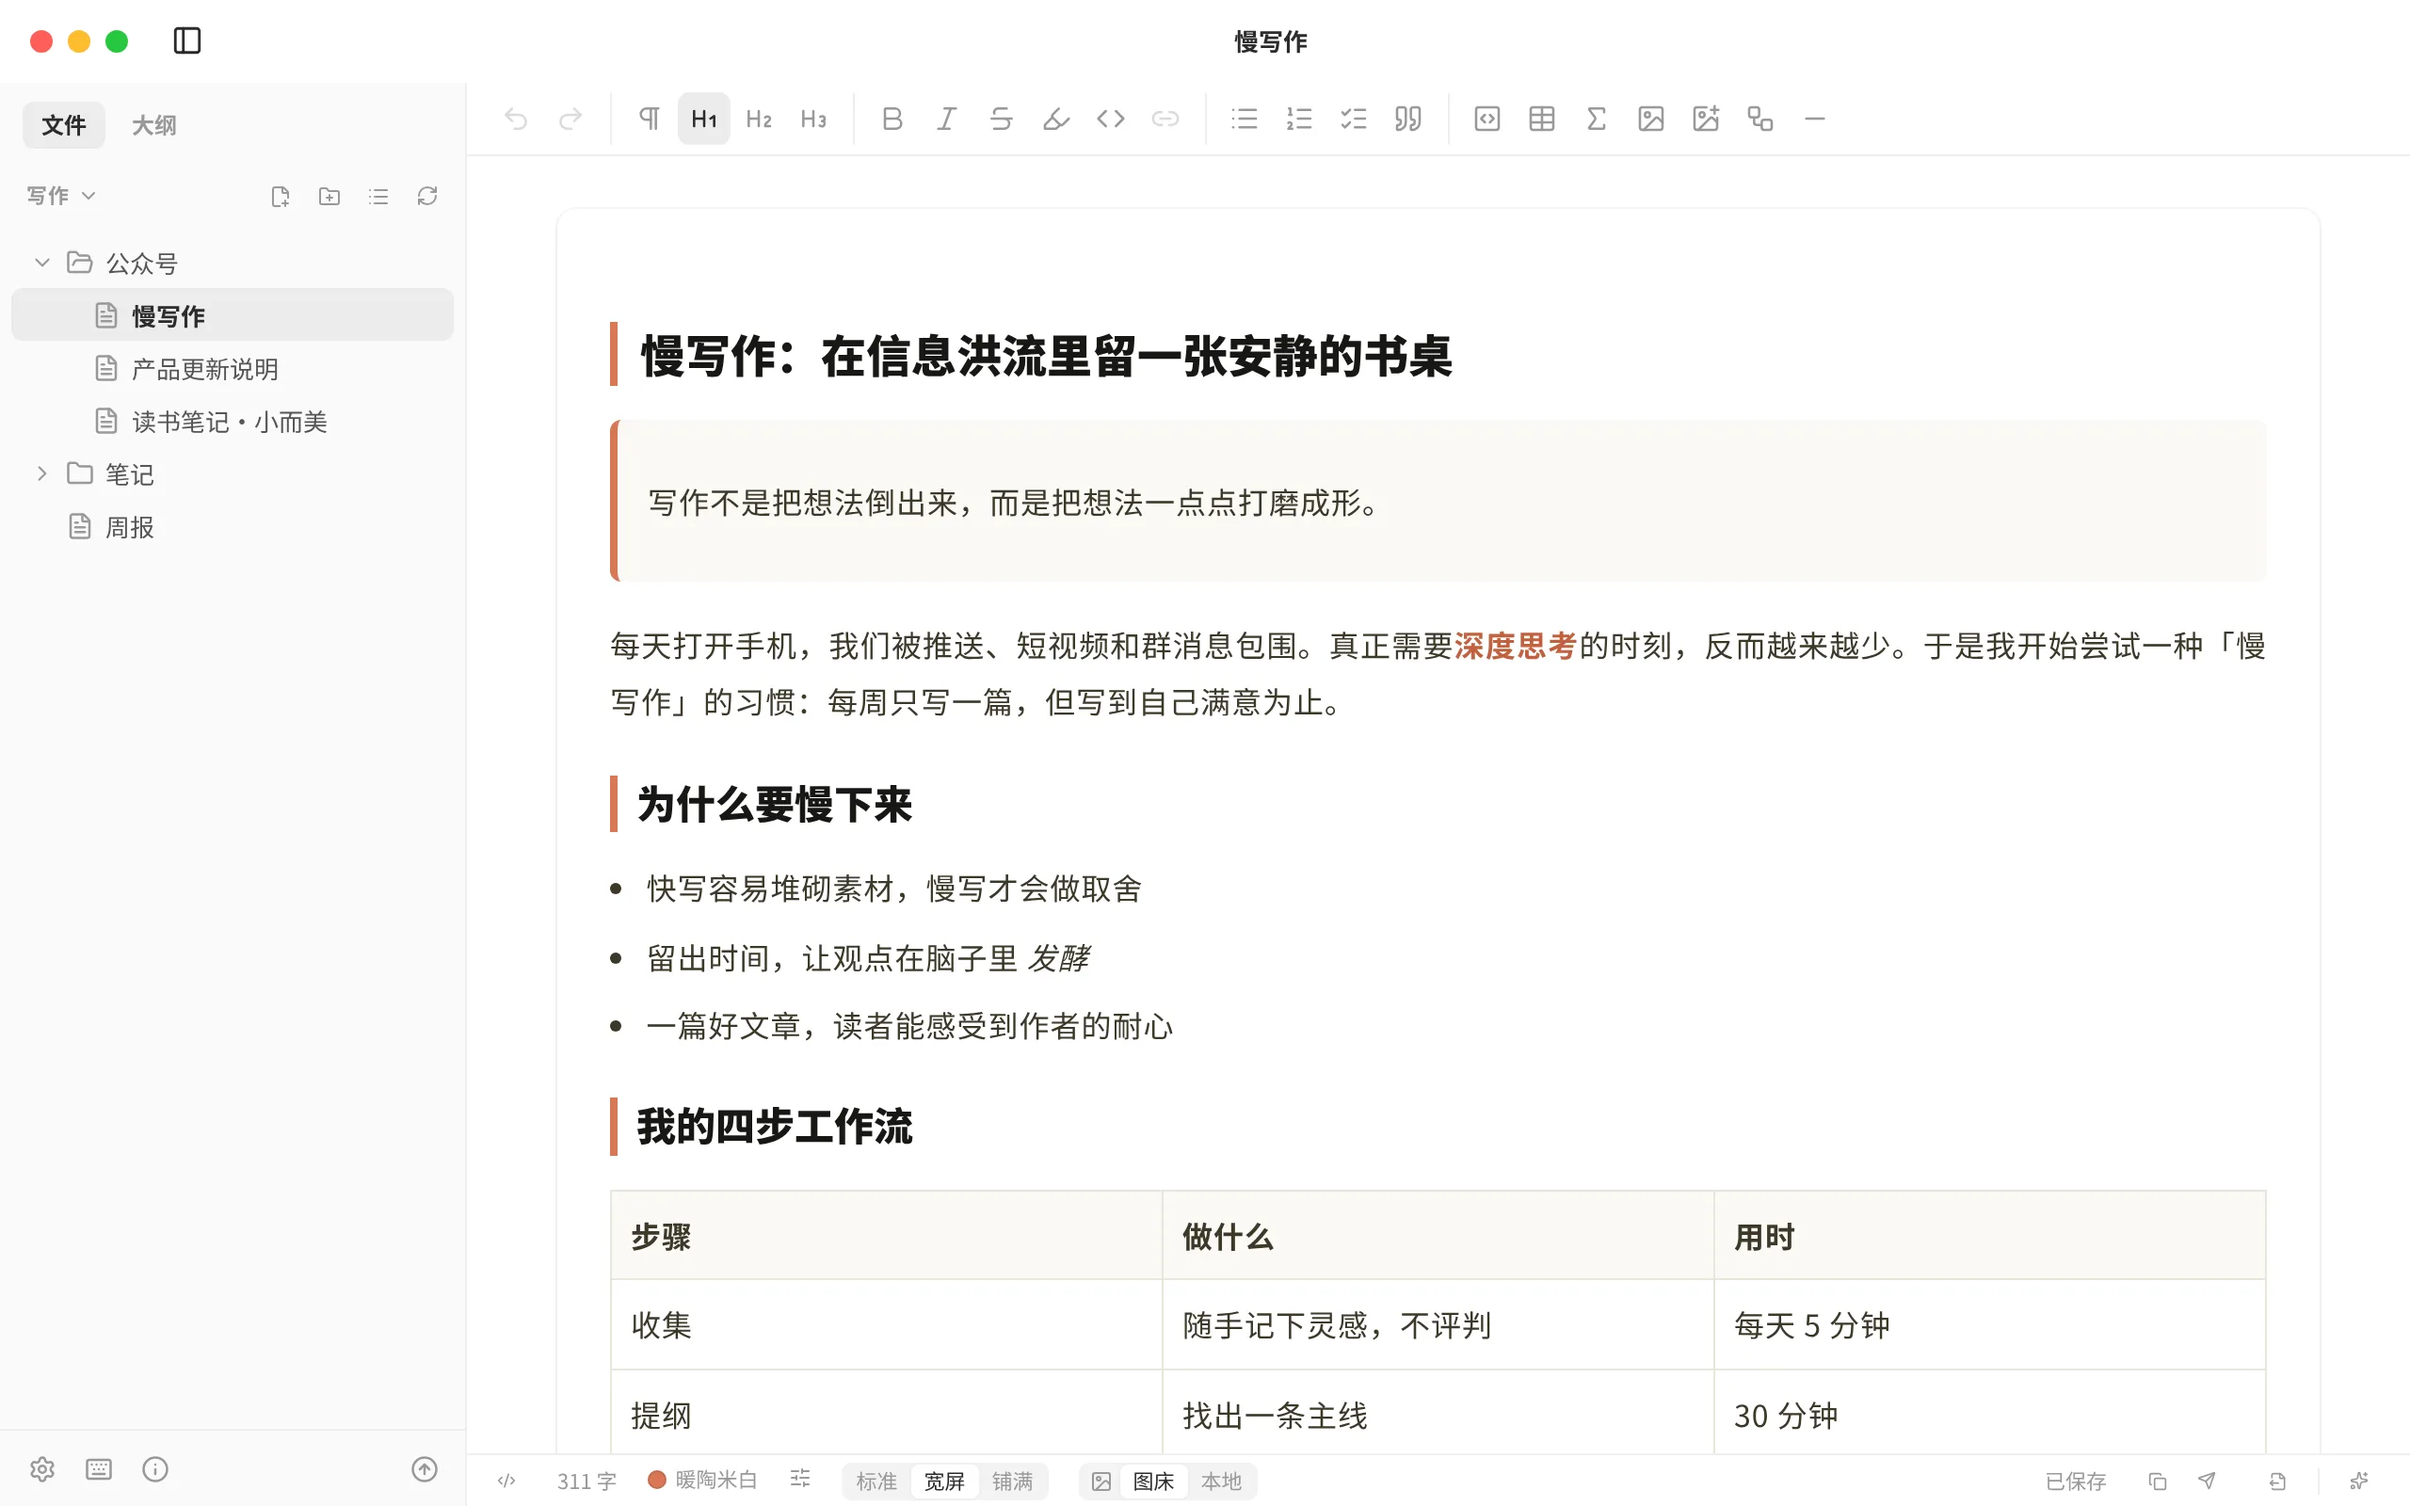
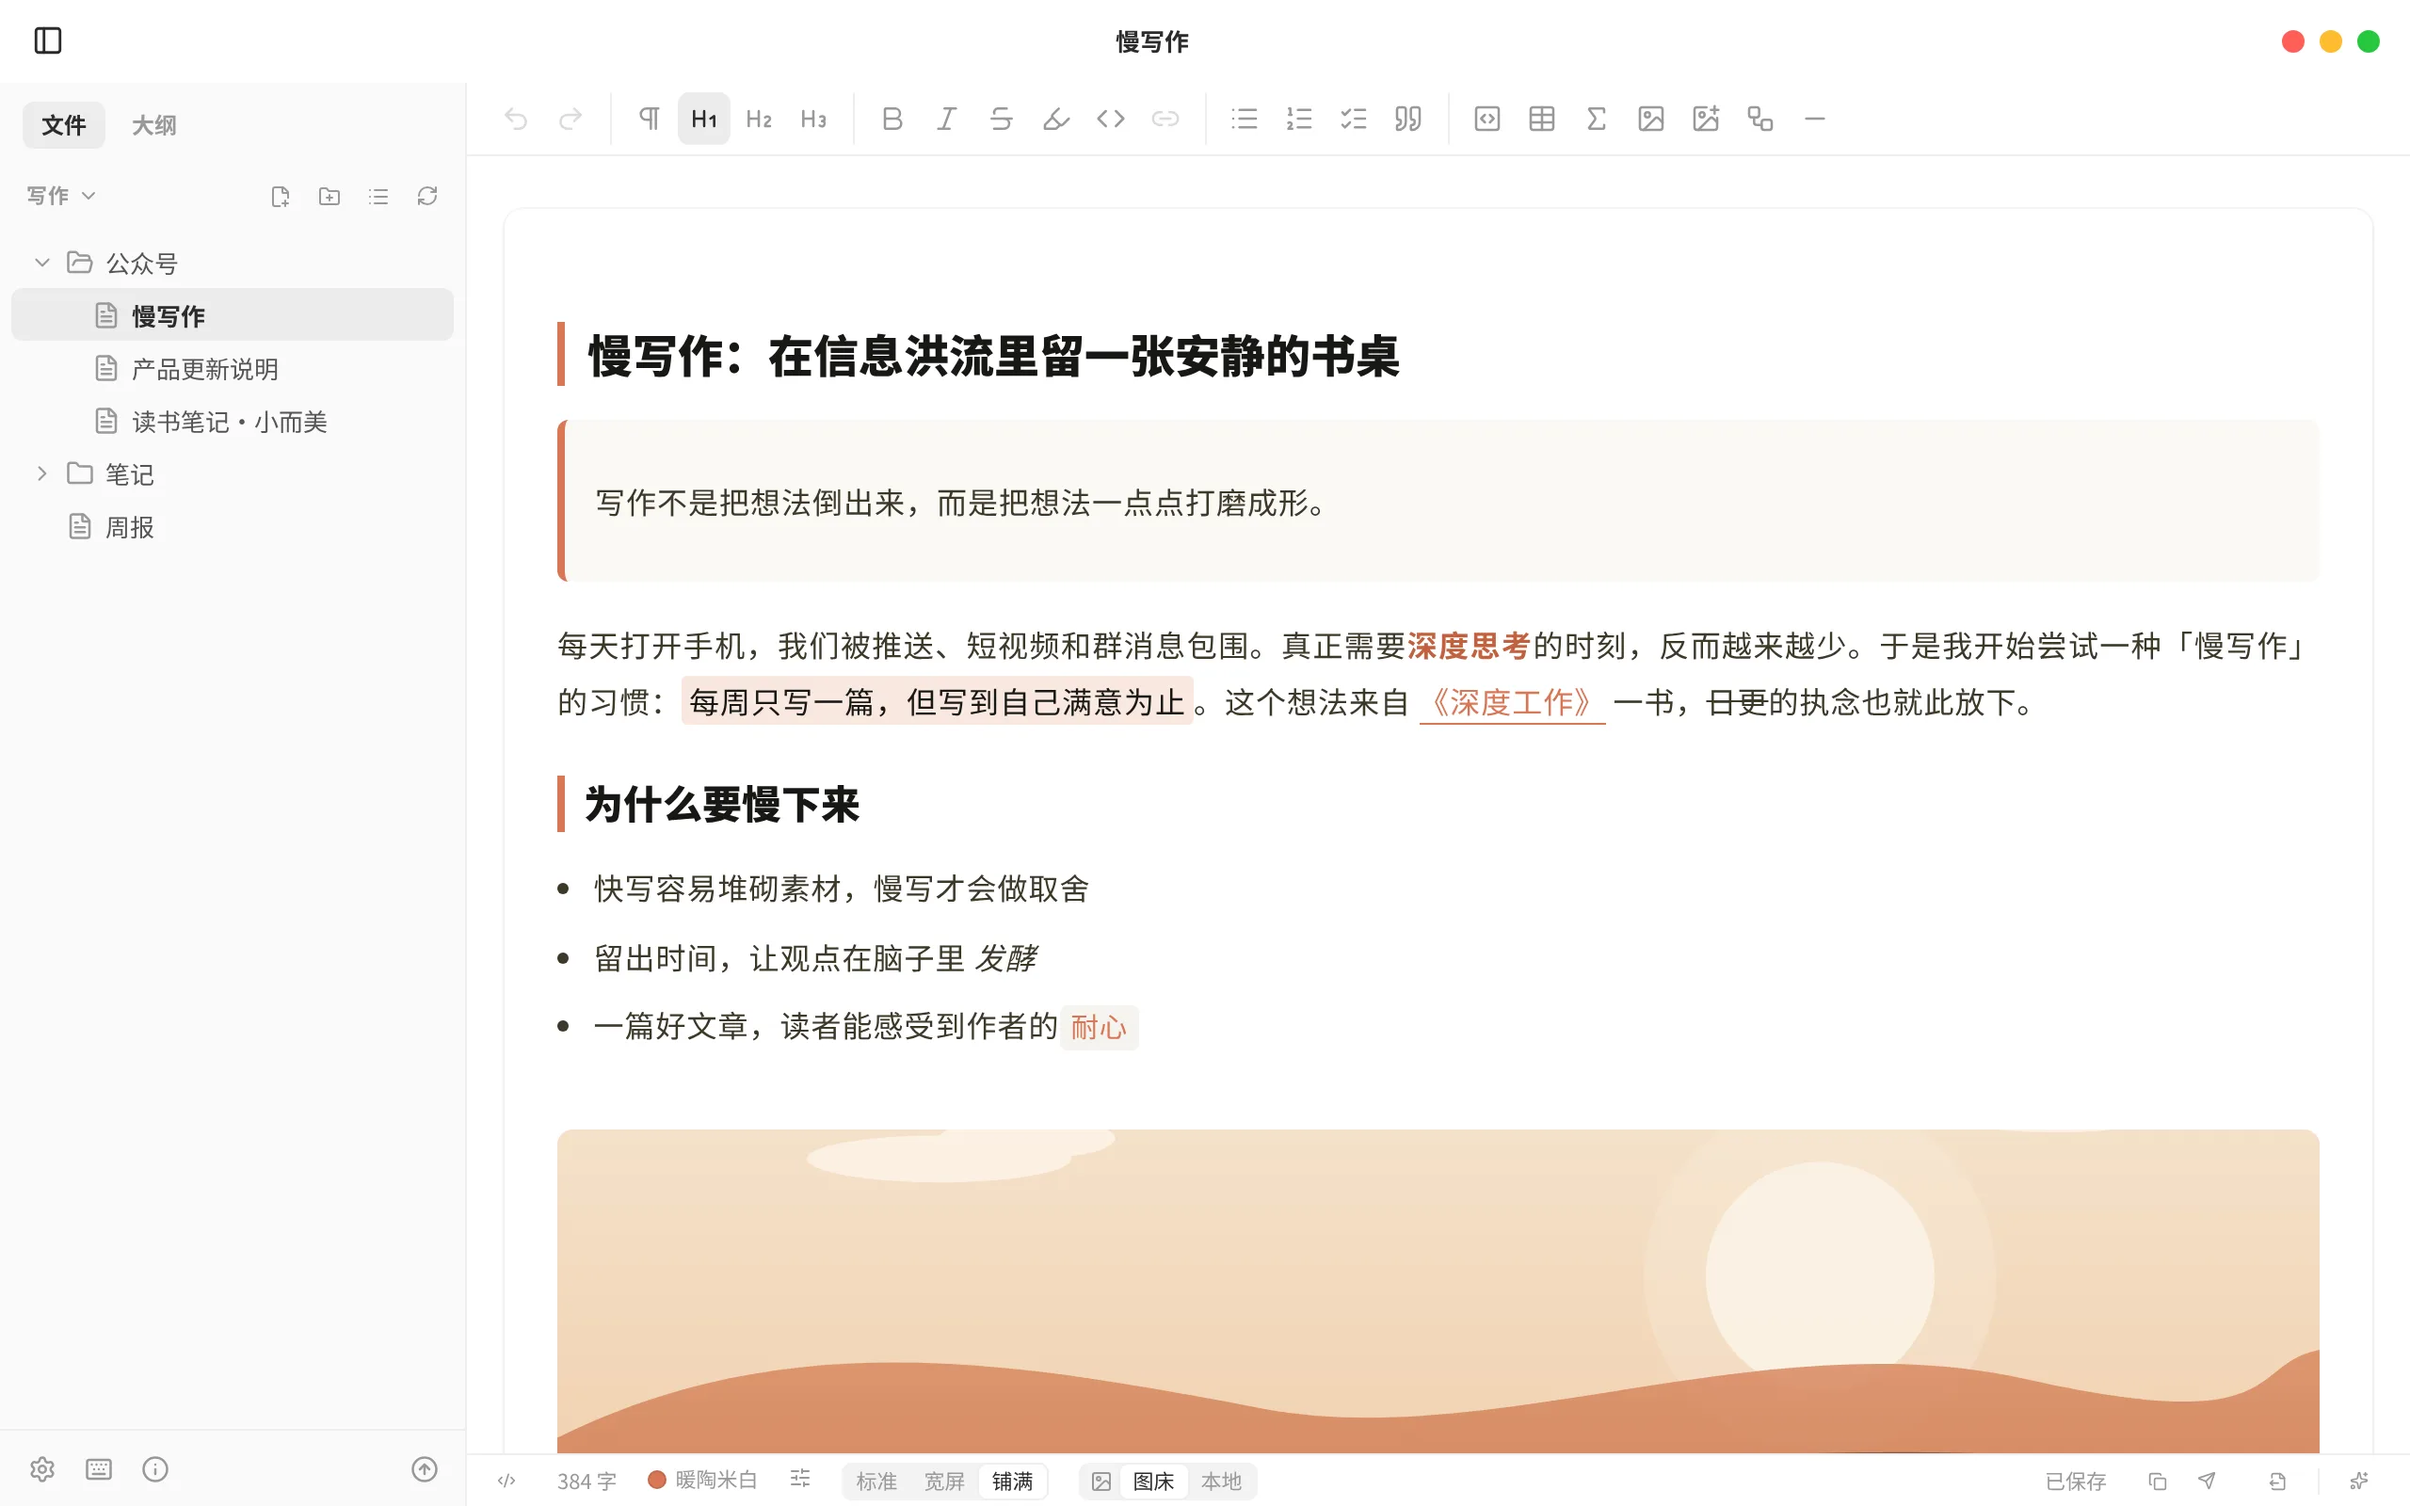
docs: 丰富截图示例文档并按新默认设置重新生成介绍页图片

diff --git a/scripts/screenshots/notes.ts b/scripts/screenshots/notes.ts
@@ -1,15 +1,24 @@
-// 截图用的示例笔记库：路径相对笔记库根目录
-const slowWriting = `# 慢写作：在信息洪流里留一张安静的书桌
+// 截图用的示例笔记库：路径相对笔记库根目录。尽量覆盖编辑器支持的各类元素。
+// 图片引用 assets/ 下的文件，由 shoot.mjs 从 scripts/screenshots/assets/ 提供。
+const slowWriting = `---
+title: 慢写作：在信息洪流里留一张安静的书桌
+tags: [写作, 习惯, 效率]
+summary: 每周只写一篇，但写到自己满意为止
+---
+
+# 慢写作：在信息洪流里留一张安静的书桌
 
 > 写作不是把想法倒出来，而是把想法一点点打磨成形。
 
-每天打开手机，我们被推送、短视频和群消息包围。真正需要**深度思考**的时刻，反而越来越少。于是我开始尝试一种「慢写作」的习惯：每周只写一篇，但写到自己满意为止。
+每天打开手机，我们被推送、短视频和群消息包围。真正需要**深度思考**的时刻，反而越来越少。于是我开始尝试一种「慢写作」的习惯：==每周只写一篇，但写到自己满意为止==。这个想法来自 [《深度工作》](https://calnewport.com/deep-work/) 一书，~~日更~~的执念也就此放下。
 
 ## 为什么要慢下来
 
 - 快写容易堆砌素材，慢写才会做取舍
 - 留出时间，让观点在脑子里 *发酵*
-- 一篇好文章，读者能感受到作者的耐心
+- 一篇好文章，读者能感受到作者的\`耐心\`
+
+![留一张安静的书桌](assets/desk.svg)
 
 ## 我的四步工作流
 
@@ -22,6 +31,13 @@ const slowWriting = `# 慢写作：在信息洪流里留一张安静的书桌
 
 写作的产出大致符合一个朴素的规律：$\\text{质量} \\approx \\text{投入时间} \\times \\text{专注度}^2$。专注度是平方项，这也是为什么关掉通知比多坐一小时更有用。
 
+## 本周清单
+
+- [x] 整理上周的灵感卡片
+- [x] 写完初稿
+- [ ] 删掉三分之一，再读一遍
+- [ ] 发布到公众号
+
 ## 一个小工具
 
 我用一段很短的脚本统计每周的字数：
@@ -32,6 +48,8 @@ from pathlib import Path
 words = sum(len(p.read_text()) for p in Path("写作").rglob("*.md"))
 print(f"本周共写 {words} 字")
 \`\`\`
+
+---
 
 慢一点，也许会走得更远。
 `
@@ -49,17 +67,29 @@ const releaseNote = `# 用 AI 写一篇产品更新说明
 本次更新聚焦在**导出体验**上。过去导出 PDF 需要安装 LaTeX，动辄几百 MB；现在 PDF 直接按编辑区的样式生成，所见即所得。
 `
 
-const formulas = `# 常用公式速查
+const formulas = `---
+title: 常用公式速查
+tags: [数学, 图表]
+---
 
-勾股定理：$a^2 + b^2 = c^2$
+# 常用公式速查
+
+勾股定理 $a^2 + b^2 = c^2$，欧拉恒等式 $e^{i\\pi} + 1 = 0$；上标 E = mc^2^ 与下标 H~2~O 也能直接输入。
 
 $$
-\\int_{-\\infty}^{\\infty} e^{-x^2}\\,dx = \\sqrt{\\pi}
+\\int_{-\\infty}^{\\infty} e^{-x^2}\\,dx = \\sqrt{\\pi} \\qquad P(A \\mid B) = \\frac{P(B \\mid A)\\,P(A)}{P(B)}
 $$
 
 \`\`\`mermaid
 flowchart LR
   灵感 --> 提纲 --> 初稿 --> 打磨 --> 发布
+\`\`\`
+
+发布前用一小段脚本检查文章长度：
+
+\`\`\`javascript
+const minutes = (text) => Math.ceil(text.length / 400)
+console.log(\`预计阅读 \${minutes(article)} 分钟\`)
 \`\`\`
 `
 
@@ -69,5 +99,6 @@ export const NOTES: Record<string, string> = {
   '公众号/读书笔记·小而美.md': '# 读书笔记\n\n小即是美。\n',
   '笔记/常用公式.md': formulas,
   '笔记/待办.md': '# 待办\n\n- [x] 写完 README\n- [ ] 上线主页\n',
+  '笔记/会议纪要.md': '# 会议纪要\n\n讨论下季度选题。\n',
   '周报.md': '# 周报\n\n本周完成了主页设计。\n'
 }

diff --git a/scripts/screenshots/mock-bridge.tsx b/scripts/screenshots/mock-bridge.tsx
@@ -21,10 +21,8 @@ let settings: AppSettings = {
   showAgent: q.has('agent'),
   showSidebar: !q.has('nosidebar'),
   editorWidth: (q.get('width') as AppSettings['editorWidth']) ?? defaultSettings.editorWidth,
-  windowControls: 'traffic',
   // 启动 5 秒后的更新检查会弹出提示，截图时关闭
-  autoCheckUpdate: false,
-  trafficPosition: 'left'
+  autoCheckUpdate: false
 }
 
 function tree(): FileNode[] {
